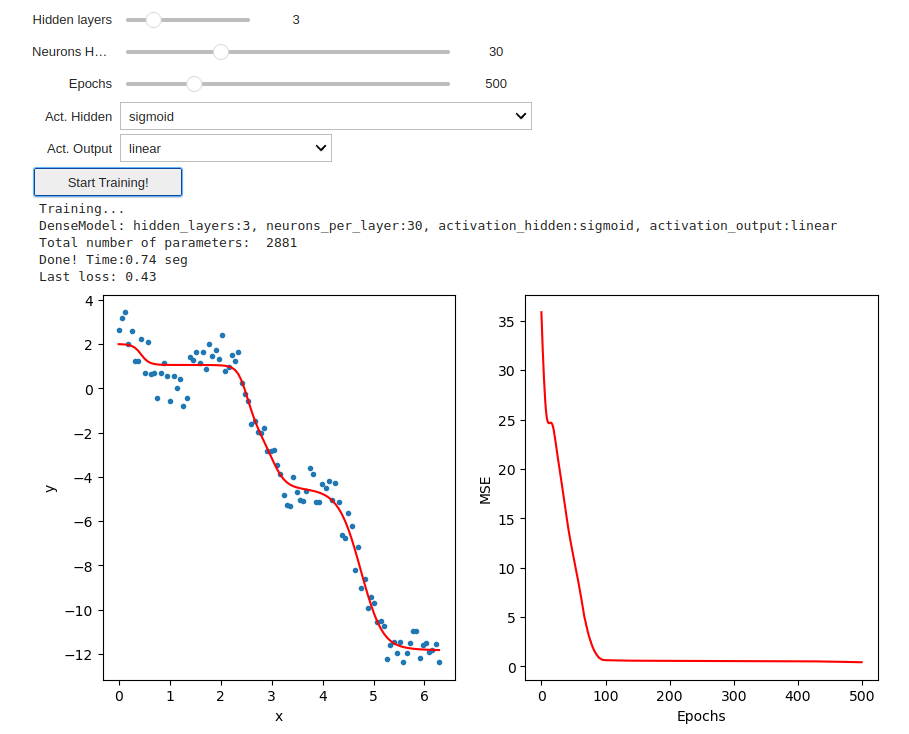
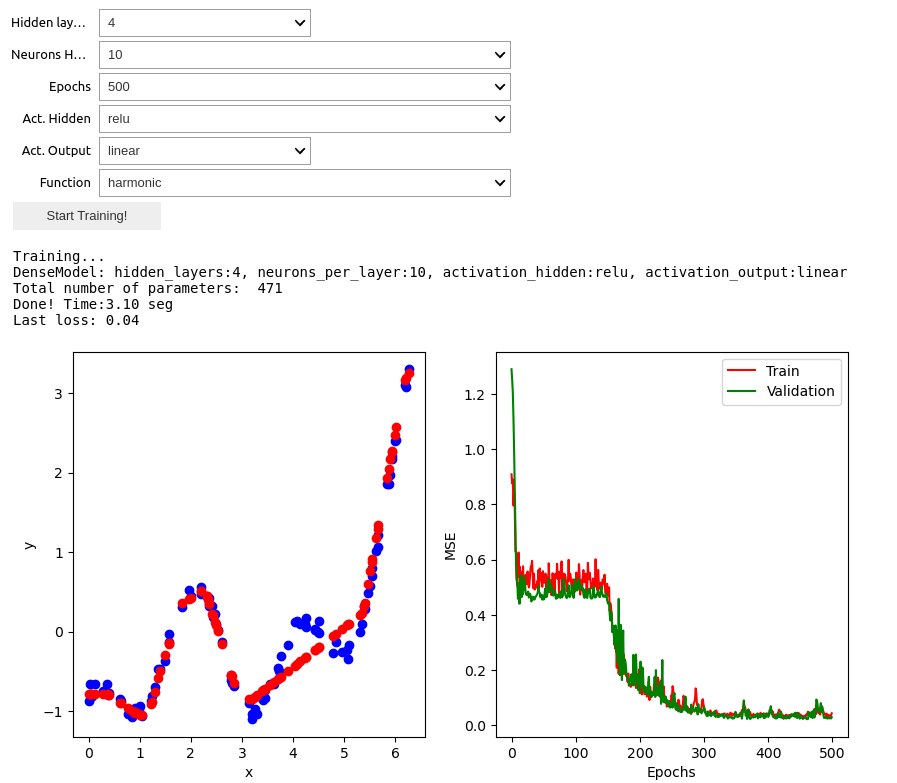
2024

diff --git a/tests/test_MyModels.py b/tests/test_MyModels.py
@@ -1,23 +1,51 @@
-from MyModels import DenseModel
-import torch.nn as nn
+import pytest
 import torch
+import torch.nn as nn
+from MyModels import DenseModel
 
-def test_DenseModel():
+@pytest.fixture
+def dense_model():
+    return DenseModel()
 
-    # Test the DenseModel class
-    # Simple linear model with 1 hidden layer
-    model = DenseModel(hidden_layers=0, neurons_per_layer=1, activation_hidden='relu', activation_output='linear')
-    num_params = sum(p.numel() for p in model.parameters() if p.requires_grad)
-    assert num_params == 4
 
-    model = DenseModel(hidden_layers=1, neurons_per_layer=1, activation_hidden='relu', activation_output='relu')
-    num_params = sum(p.numel() for p in model.parameters() if p.requires_grad)
-    assert num_params == 6
+def test_dense_model_creation():
+    dense_model = DenseModel()
+    assert isinstance(dense_model, nn.Module)
 
-    model = DenseModel(hidden_layers=5, neurons_per_layer=10, activation_hidden='sigmoid', activation_output='linear')
-    num_params = sum(p.numel() for p in model.parameters() if p.requires_grad)
-    assert num_params == 581
 
-    # Check the model is the correct type
-    assert isinstance(model, DenseModel)
-    assert isinstance(model, nn.Module)
+@pytest.mark.parametrize("hidden_layers, neurons_per_layer", [
+    (1, 10),
+    (2, 20),
+    (3, 5),
+])
+def test_forward_pass(hidden_layers, neurons_per_layer):
+    model = DenseModel(hidden_layers, neurons_per_layer)
+    x = torch.randn(10, 1)  # Batch size of 10
+    output = model(x)
+    assert output.shape == torch.Size([10, 1]), "Output shape should be [10, 10] for any input configuration"
+
+@pytest.mark.parametrize("hidden_layers, neurons_per_layer, activation_hidden, activation_output", [
+    (2, 2, 'relu', 'linear'),
+    (2, 20, 'sigmoid', 'tanh'),
+    (3, 5, 'tanh', 'sigmoid'),
+])
+def test_model_construction(hidden_layers, neurons_per_layer, activation_hidden, activation_output):
+    model = DenseModel(hidden_layers, neurons_per_layer, activation_hidden, activation_output)
+    # Assuming each layer has a bias term, adjust the expected_params calculation if not
+    expected_params = (neurons_per_layer + neurons_per_layer)  +\
+                        neurons_per_layer**2 * (hidden_layers) + neurons_per_layer * hidden_layers +\
+                        (neurons_per_layer + 1)  # Last layer to output
+    if hidden_layers == 0:  # Adjust for models with only one layer
+        expected_params = 2  # One weight and one bias
+    total_params = sum(p.numel() for p in model.parameters())
+
+    for name, param in model.named_parameters():
+        print(f"Layer: {name} | Size: {param.size()} | Values : {param[:2]} \n")
+    assert total_params == expected_params, f"Expected {expected_params} parameters, got {total_params}"
+    # Add more checks here if necessary, such as checking for the correct activation functions
+
+def test_single_hidden_layer():
+    dense_model = DenseModel(hidden_layers=1)
+    input_tensor = torch.randn(10, 1)  # Batch size 10, input size 1
+    output = dense_model(input_tensor)
+    assert output.shape == (10, 1)  # Output shape should match input shape

diff --git a/tests/test_MyDatasets.py b/tests/test_MyDatasets.py
@@ -1,0 +1,56 @@
+import unittest
+import torch
+from math import isclose
+from MyDatasets import SimpleFunctionsDataset
+
+class TestSimpleFunctionsDataset(unittest.TestCase):
+    def test_linear_function(self):
+        dataset = SimpleFunctionsDataset(n_samples=100, function='linear')
+        self.assertEqual(len(dataset), 100)
+
+        x, y = dataset[0]
+        self.assertIsInstance(x, torch.Tensor)
+        self.assertIsInstance(y, torch.Tensor)
+        self.assertEqual(x.shape, torch.Size([1]))
+        self.assertEqual(y.shape, torch.Size([1]))
+
+        # Test if the generated data follows the linear function
+        x = dataset.x
+        expected_y = 1.5 * x + 0.3
+        expected_y = (expected_y - expected_y.mean()) / expected_y.std()
+        self.assertTrue(isclose(y[0].item(), expected_y[0].item(), rel_tol=1))
+
+    def test_quadratic_function(self):
+        dataset = SimpleFunctionsDataset(n_samples=100, function='quadratic')
+        self.assertEqual(len(dataset), 100)
+
+        x, y = dataset[0]
+        self.assertIsInstance(x, torch.Tensor)
+        self.assertIsInstance(y, torch.Tensor)
+        self.assertEqual(x.shape, torch.Size([1]))
+        self.assertEqual(y.shape, torch.Size([1]))
+
+        # Test if the generated data follows the quadratic function
+        x = dataset.x
+        expected_y = 2 * x**2 + 0.5 * x + 0.3
+        expected_y = (expected_y - expected_y.mean()) / expected_y.std()
+        self.assertTrue(isclose(y[0].item(), expected_y[0].item(), rel_tol=1))
+
+    def test_harmonic_function(self):
+        dataset = SimpleFunctionsDataset(n_samples=100, function='harmonic')
+        self.assertEqual(len(dataset), 100)
+
+        x, y = dataset[0]
+        self.assertIsInstance(x, torch.Tensor)
+        self.assertIsInstance(y, torch.Tensor)
+        self.assertEqual(x.shape, torch.Size([1]))
+        self.assertEqual(y.shape, torch.Size([1]))
+
+        # Test if the generated data follows the harmonic function
+        x = dataset.x
+        expected_y = .5 * x**2 + 5 * torch.sin(x) + 3 * torch.cos(3 * x) + 2
+        expected_y = (expected_y - expected_y.mean()) / expected_y.std()
+        self.assertTrue(isclose(y[0].item(), expected_y[0].item(), rel_tol=1))
+
+if __name__ == '__main__':
+    unittest.main()

diff --git a/tests/test_MyTrainings.py b/tests/test_MyTrainings.py
@@ -1,0 +1,46 @@
+import pytest
+from unittest.mock import MagicMock, patch
+import torch
+import torch.nn as nn
+from torch.utils.data import DataLoader, TensorDataset
+from MyModels import DenseModel
+from MyTrainings import Training  # Adjust this to the correct import for your Training function
+
+@pytest.fixture
+def simple_linear_dataset():
+    # Simulate a dataset with a simple linear relationship
+    x = torch.randn(100, 1)  # 100 samples, single feature
+    y = 2 * x + 3  # Linear function: y = 2x + 3
+    dataset = TensorDataset(x, y)
+    return dataset
+
+@pytest.fixture
+def mock_dataloaders(simple_linear_dataset):
+    # Split the dataset into training and validation sets
+    train_size = int(0.8 * len(simple_linear_dataset))
+    val_size = len(simple_linear_dataset) - train_size
+    train_dataset, val_dataset = torch.utils.data.random_split(simple_linear_dataset, [train_size, val_size])
+
+    # Create DataLoader for training and validation sets
+    batch_size = 32
+    train_loader = DataLoader(train_dataset, batch_size=batch_size, shuffle=True)
+    val_loader = DataLoader(val_dataset, batch_size=batch_size, shuffle=False)
+    return train_loader, val_loader
+
+def test_Training(mock_dataloaders):
+    train_loader, val_loader = mock_dataloaders
+
+    # Instantiate the model and optimizer here to use in the test
+    model = DenseModel(1, 1).to('cpu')
+    optimizer = torch.optim.Adam(model.parameters(), lr=0.01)
+
+    train_loss, val_loss, trained_model = Training(train_loader, val_loader, optimizer, loss=nn.MSELoss(),
+                                                    model=model, epochs=1,  # Run a single epoch for testing
+                                                    device='cpu')  # Use CPU for simplicity
+
+    # Assertions to validate training behavior
+    assert len(train_loss) == 1  # There should be one entry per epoch
+    assert len(val_loss) == 1
+    assert train_loss[0] >= 0  # Loss should be a non-negative value
+    assert val_loss[0] >= 0
+

diff --git a/README.md b/README.md
@@ -13,6 +13,22 @@ The parameters we will be able to test in real time are:
 4. Activation function used in the output layer (Sigmoid, Tanh, ReLu, Linear)
 5. Number of epochs to train the model.
 
+## Make a *dataset* to create random samples from different functions (10) 
+Inside **MyDatasets.py** create a class called **SimpleFunctionsDataset** that
+receives the following parameters in the constructor:
+* **n_samples**. Number of samples to be generated. (default value 100)
+* **function**. The function to be approximated. Options: 
+    * 'linear' → $y = 1.5x + 0.3 + \epsilon$. Epsilon represent uniform distribution error between -1 and 1
+    * 'quadratic' → $y = 2x^2 + 0.5x + 0.3 + \epsilon$. Epsilon represent uniform distribution error between -1 and 1
+    * 'harmonic' → $y = .5x^2 + 5\sin(x) + 3\cos(3x) + 2 + \epsilon$. Epsilon represent uniform distribution error between -1 and 1.
+
+The values of x should be generated randomly between 0 and $2\pi$. 
+
+This dataset should be a subclass of `torch.utils.data.Dataset` and 
+contain the required methods to be used in a `torch.utils.data.DataLoader` (e.g. `__len__` and `__getitem__`).
+
+**IMPORTANT** Normalize your output data to be mean 0 and standard deviation 1. 
+
 ## Make a *dynamic* NN module (10) 
 Inside **MyModels.py** create a class called **DenseModel** that
 imports from **nn.Module** and receives the following parameters in the constructor:
@@ -29,34 +45,52 @@ Depending on the input values, the constructor should create the appropriate num
 Finally, create a **forward** method that receives the input data and returns the output of the previously created NN model.
 
 ## Make a *dynamic* Training module (10) 
-Inside **Training.py** create a function called **training** that
+Inside **MyTraining.py** create a function called **Training** that
 receives the following parameters:
 
-* **x**. The input data to be used in the training.
-* **y**. The output data to be used in the training. 
+* **train_dataloader**. The dataloader to be used in the training.
+* **validation_dataloader**. The dataloader to be used in the training.
 * **optimizer**. The optimizer to be used in the training. 
 * **loss**. The loss function to be used in the training. (default value: `nn.MSELoss()`)
 * **model**. The model to be trained. (default value: `DenseModel()`)
 * **epochs**. Number of epochs to train the model. (default value: `500`)
+* **batch_size**. The batch size to be used in the training. (default value: `10`)
+
 
 The function should train the model for the specified number of epochs and return:
-1. The loss function for each epoch as a list.
-2. The trained model.
+1. The training loss function for each epoch as a list.
+2. The validation loss function for each epoch as a list.
+3. The trained model.
 
 ## Make your test bed (10)
-Following the provided jupyter notebook called **TestBed.ipynb** fill the missing code of the widget
+Following the provided jupyter notebook called **TestBed.py** fill the missing code of the widget
 to make a test bed where you can:
 
-1. A slider to select the number of hidden layers. Options from 1 to 5.
-2. A slider to select the number of neurons for each hidden layer. Options from 1 to 100.
-3. A slider to select the number of epochs to train the model. Options from 1 to 1000.
+1. A dropdown to select the number of hidden layers. Options from 1 to 5.
+2. A dropdown to select the number of neurons for each hidden layer. Options from 1 to 100.
+3. A dropdown to select the number of epochs to train the model. Options from 1 to 1000 every 100.
 4. A dropdown menu to select the activation function for the hidden layers. Options are: 'relu', 'sigmoid', 'tanh', 'linear'. (default value: 'relu')
 5. A dropdown menu to select the activation function for the output layer. Options are: 'relu', 'sigmoid', 'tanh', 'linear'. (default value: 'linear')
-6. A button to start the training.
+6. A dropdown menu to select the function to be approximated. Options are: 'linear', 'quadratic', 'harmonic'. (default value: 'linear')
+7. A button to start the training.
 
 The widget should show the following plots: 
 1. Figure 1. Observations to be approximated and the function approximated by the trained model.
-2. Figure 2. The loss function for each epoch.
+2. Figure 2. The training and validation loss function or each epoch.
 
 Example:
 ![](./images/ExampleOutput.png)
+
+## Neural network analysis (10)
+Please identify a set of parameters that show the following:
+
+1. **Overfitting** (5) Can you show an example of overfitting? What parameters did you use? why do you think it is overfitting? Show a plot of your training and validation loss that corresponds to the overfitting example.
+2. **Underfitting** (5) Can you show an example of underfitting? What parameters did you use? why do you think it is underfitting? Show a plot of your training and validation loss that corresponds to the underfitting example. 
+
+## Extra points batch normalization (10)
+Inside **MyModels.py** create a class called **DenseModelBN** that
+includes a parameter for batch normalization. If the parameter is true then include BN after each hidden layer.
+
+Additionally, update your widget to include a checkbox to include batch normalization and call this updated widget **TestBedBN.py**.
+
+Include an example where BN helps to improve the accuracy of a deep model (with multiple hidden layers).
